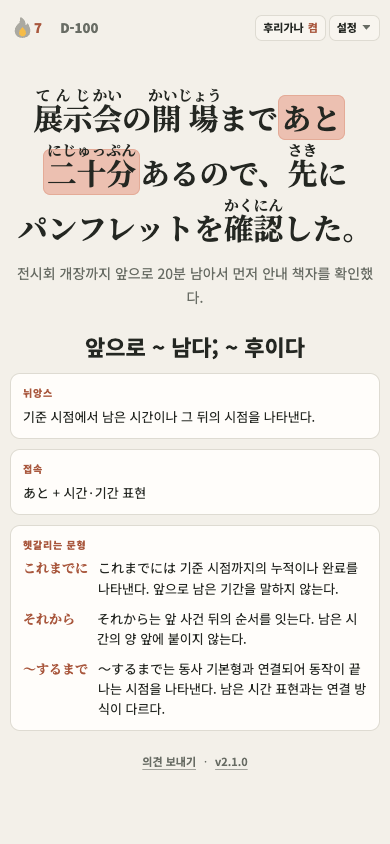
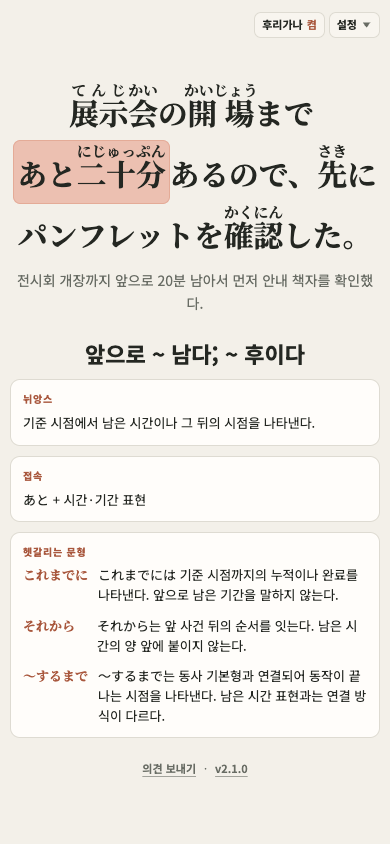
Refresh v2.1.0 gallery with merged UI fixes

diff --git a/docs/jlpt-gallery-updates/v2.1.0.html b/docs/jlpt-gallery-updates/v2.1.0.html
@@ -124,6 +124,12 @@
     <div style="margin-top:10px;color:#59645e;font-size:13px;text-align:center;">의견 보내기 화면 · 입력 예시이며 실제로 전송하지 않음</div>
   </div>
 
+  <p style="margin:20px 8px 0;">보낸 뒤에는 큰 입력 창 대신, 접수 완료 안내만 작은 창으로 화면 가운데 보여줌.</p>
+  <div style="margin:18px 0 0;padding:18px;background:#f4f7f5;border:1px solid #dfe5e1;">
+    <img src="https://truthyblue.github.io/jlpt-max-deck/assets/releases/v2.1.0/gallery-v2.1.0-report-success.png" alt="작아진 접수 완료 창 · 응답을 흉내 낸 화면이며 실제로 전송하지 않음" width="390" height="844" style="display:block;width:100%;max-width:390px;height:auto;margin:0 auto;border:0;">
+    <div style="margin-top:10px;color:#59645e;font-size:13px;text-align:center;">작아진 접수 완료 창 · 실제 전송 없이 확인한 화면</div>
+  </div>
+
   <div style="margin:40px 8px 0;padding-left:14px;border-left:7px solid #8ee6b1;font-size:25px;font-weight:900;line-height:1.4;letter-spacing:-.045em;">새 버전 안내에서 바로 다운로드</div>
   <p style="margin:16px 8px 0;">기본 덱 받기 버튼과 가져오기 옵션을 같은 화면에 넣었음. 파일을 받았다고 안내가 바로 사라지지 않아 옵션을 다시 확인할 수 있음.</p>
   <div style="margin:18px 0 0;padding:18px;background:#f4f7f5;border:1px solid #dfe5e1;">
@@ -156,8 +162,15 @@
     <div style="margin-top:10px;color:#59645e;font-size:13px;text-align:center;">한자 카드 뒷면의 쓰기 연습 · 획순 불러오기</div>
   </div>
 
-  <div style="margin:40px 8px 0;padding-left:14px;border-left:7px solid #8ee6b1;font-size:25px;font-weight:900;line-height:1.4;letter-spacing:-.045em;">문법 후리가나 위치 수정</div>
-  <p style="margin:16px 8px 0;">문법 답안의 후리가나가 iPhone·iPad에서 본문과 어긋나는 경우를 고쳤음. 한자 바로 위에서 읽기를 확인할 수 있도록 위치를 맞췄음.</p>
+  <div style="margin:40px 8px 0;padding-left:14px;border-left:7px solid #8ee6b1;font-size:25px;font-weight:900;line-height:1.4;letter-spacing:-.045em;">좁은 화면에서도 한자 읽기 편하게</div>
+  <p style="margin:16px 8px 0;">비슷한 한자의 음독·훈독 제목을 읽기 위로 옮겼음. 좁은 화면에서 읽기가 한 글자씩 세로로 끊기는 문제를 고쳤음.</p>
+  <div style="margin:18px 0 0;padding:18px;background:#f4f7f5;border:1px solid #dfe5e1;">
+    <img src="https://truthyblue.github.io/jlpt-max-deck/assets/releases/v2.1.0/gallery-v2.1.0-kanji-readings.png" alt="한자 뒷면 · 비슷한 한자의 읽기 배치" width="390" height="1624" style="display:block;width:100%;max-width:390px;height:auto;margin:0 auto;border:0;">
+    <div style="margin-top:10px;color:#59645e;font-size:13px;text-align:center;">한자 뒷면 · 비슷한 한자의 읽기 배치</div>
+  </div>
+
+  <div style="margin:40px 8px 0;padding-left:14px;border-left:7px solid #8ee6b1;font-size:25px;font-weight:900;line-height:1.4;letter-spacing:-.045em;">문장과 후리가나를 한 덩어리로 강조</div>
+  <p style="margin:16px 8px 0;">문법 답안에서 강조할 본문과 위쪽 후리가나를 하나의 붉은 배경으로 감쌌음. 한자와 읽기가 따로 떨어져 보이지 않도록 했고, iPhone·iPad에서 후리가나 위치가 어긋나는 경우도 고쳤음.</p>
   <div style="margin:18px 0 0;padding:18px;background:#f4f7f5;border:1px solid #dfe5e1;">
     <img src="https://truthyblue.github.io/jlpt-max-deck/assets/releases/v2.1.0/gallery-v2.1.0-grammar.png" alt="기본 문법 답안 · 후리가나를 켠 화면" width="390" height="844" style="display:block;width:100%;max-width:390px;height:auto;margin:0 auto;border:0;">
     <div style="margin-top:10px;color:#59645e;font-size:13px;text-align:center;">기본 문법 답안 · 후리가나를 켠 화면</div>

diff --git a/docs/release-details/v2.1.0.md b/docs/release-details/v2.1.0.md
@@ -98,6 +98,10 @@ v2.1.0은 어휘 9,160개의 뜻과 예문을 같은 학습 기준으로 다시 
 
 ![의견 보내기 화면 · 입력 예시이며 실제로 전송하지 않음](https://raw.githubusercontent.com/truthyblue/jlpt-max-deck/v2.1.0/site/assets/releases/v2.1.0/gallery-v2.1.0-report.png)
 
+전송 후에는 접수 완료 안내만 작은 창으로 화면 가운데 보여줍니다.
+
+![작아진 접수 완료 창 · 실제 전송 없이 확인한 화면](https://raw.githubusercontent.com/truthyblue/jlpt-max-deck/v2.1.0/site/assets/releases/v2.1.0/gallery-v2.1.0-report-success.png)
+
 ### 새 버전 안내에서 바로 다운로드
 
 기본 덱 받기 버튼과 가져오기 옵션을 같은 화면에 넣었습니다. 파일을 받은 뒤에도 안내가 남아 옵션을 다시 확인할 수 있습니다.
@@ -124,9 +128,15 @@ v2.1.0은 어휘 9,160개의 뜻과 예문을 같은 학습 기준으로 다시 
 
 ![한자 카드 뒷면의 쓰기 연습 · 획순 불러오기](https://raw.githubusercontent.com/truthyblue/jlpt-max-deck/v2.1.0/site/assets/releases/v2.1.0/gallery-v2.1.0-strokes.png)
 
-### 문법 후리가나 위치 수정
+### 한자 읽기 배치 정리
 
-문법 답안의 후리가나가 iPhone·iPad에서 본문과 어긋나는 경우를 고쳤습니다.
+비슷한 한자의 음독·훈독 제목을 읽기 위로 옮겼습니다. 좁은 화면에서 읽기가 한 글자씩 세로로 끊기는 문제를 고쳤습니다.
+
+![한자 뒷면 · 비슷한 한자의 읽기 배치](https://raw.githubusercontent.com/truthyblue/jlpt-max-deck/v2.1.0/site/assets/releases/v2.1.0/gallery-v2.1.0-kanji-readings.png)
+
+### 문장과 후리가나를 한 덩어리로 강조
+
+문법 답안의 강조할 본문과 후리가나를 하나의 붉은 배경으로 감쌌습니다. iPhone·iPad에서 후리가나 위치가 어긋나는 경우도 고쳤습니다.
 
 ![기본 문법 답안 · 후리가나를 켠 화면](https://raw.githubusercontent.com/truthyblue/jlpt-max-deck/v2.1.0/site/assets/releases/v2.1.0/gallery-v2.1.0-grammar.png)
 
@@ -141,7 +151,7 @@ v2.1.0은 어휘 9,160개의 뜻과 예문을 같은 학습 기준으로 다시 
 - 급수가 달라진 카드 18장의 기존 덱 위치 보존 통과
 - `笠` 빈 카드 3장 정리와 재가져오기 통과
 - 공개 기본 덱과 한자 빌더 분리 검증 통과
-- 뜻 교정 5가지와 UI 변경 화면 11장을 390×844에서 확인
+- 뜻 교정 5가지와 UI 변경 화면 13장을 390×844에서 확인
 - 긴 카드는 본문 전체를 캡처하고 가로 넘침이 없는지 확인
 - 기본 덱 20,650노트·38,967카드·미디어 25,511개 확인
 

diff --git a/docs/releases/v2.1.0.md b/docs/releases/v2.1.0.md
@@ -98,6 +98,10 @@ v2.1.0은 어휘 9,160개의 뜻과 예문을 같은 기준으로 전부 다시 
 
 ![의견 보내기 화면 · 입력 예시이며 실제로 전송하지 않음](https://raw.githubusercontent.com/truthyblue/jlpt-max-deck/v2.1.0/site/assets/releases/v2.1.0/gallery-v2.1.0-report.png)
 
+전송 후에는 접수 완료 안내만 작은 창으로 화면 가운데 보여줍니다.
+
+![작아진 접수 완료 창 · 실제 전송 없이 확인한 화면](https://raw.githubusercontent.com/truthyblue/jlpt-max-deck/v2.1.0/site/assets/releases/v2.1.0/gallery-v2.1.0-report-success.png)
+
 ### 새 버전 안내에서 바로 다운로드
 
 기본 덱 받기 버튼과 가져오기 옵션을 같은 화면에 넣었습니다. 파일을 받은 뒤에도 안내가 남아 옵션을 다시 확인할 수 있습니다.
@@ -124,9 +128,15 @@ v2.1.0은 어휘 9,160개의 뜻과 예문을 같은 기준으로 전부 다시 
 
 ![한자 카드 뒷면의 쓰기 연습 · 획순 불러오기](https://raw.githubusercontent.com/truthyblue/jlpt-max-deck/v2.1.0/site/assets/releases/v2.1.0/gallery-v2.1.0-strokes.png)
 
-### 문법 후리가나 위치 수정
+### 한자 읽기 배치 정리
 
-문법 답안의 후리가나가 iPhone·iPad에서 본문과 어긋나는 경우를 고쳤습니다.
+비슷한 한자의 음독·훈독 제목을 읽기 위로 옮겼습니다. 좁은 화면에서 읽기가 한 글자씩 세로로 끊기는 문제를 고쳤습니다.
+
+![한자 뒷면 · 비슷한 한자의 읽기 배치](https://raw.githubusercontent.com/truthyblue/jlpt-max-deck/v2.1.0/site/assets/releases/v2.1.0/gallery-v2.1.0-kanji-readings.png)
+
+### 문장과 후리가나를 한 덩어리로 강조
+
+문법 답안의 강조할 본문과 후리가나를 하나의 붉은 배경으로 감쌌습니다. iPhone·iPad에서 후리가나 위치가 어긋나는 경우도 고쳤습니다.
 
 ![기본 문법 답안 · 후리가나를 켠 화면](https://raw.githubusercontent.com/truthyblue/jlpt-max-deck/v2.1.0/site/assets/releases/v2.1.0/gallery-v2.1.0-grammar.png)
 
